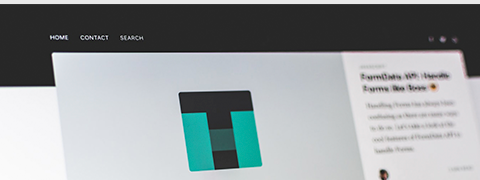
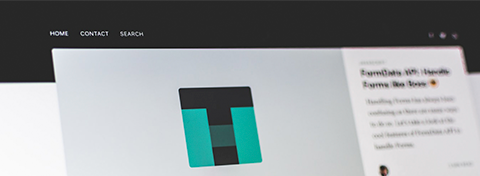
Unit4 Сверстан первый блок

diff --git a/StudyProject/css/style.css b/StudyProject/css/style.css
@@ -57,7 +57,7 @@ p {
 
 .main-container {
 	/* удалить строку*/
-	background-color: lightblue;
+	/* background-color: lightblue; */
 	margin: 0 auto;
 	width: 1920px;
 	color: #222020;
@@ -65,7 +65,7 @@ p {
 
 .container {
 	/* удалить строку*/
-	/* background-color: lightgray; */
+	background-color: rgb(184, 144, 144);
 	margin: inherit;
 	width: 1180px;
 	padding-top: 55px;
@@ -82,8 +82,8 @@ p {
 }
 
 .skillbox {
-	margin-bottom: 30px;
-	font-size: 35px;
+	margin-bottom: 50px;
+	font-size: 40px;
 	font-weight: 500;
 	font-style: normal;
 }
@@ -144,6 +144,7 @@ p {
 	background-repeat: no-repeat;
 	display: inline-block;
 	width: 100px;
+	font-size: 18px;
 	text-align: right;
 }
 
@@ -230,7 +231,8 @@ tfoot {
 	position: absolute;
 	width: 480px;
 	height: 505px;
-	box-shadow: -3px 0px 24px 12px #e8e8e8;
+	box-shadow: -3px 1px 12px 5px #e8e8e8;
+	border-radius: 15px;
 }
 
 .module-left {
@@ -241,9 +243,46 @@ tfoot {
 	right: 0px;
 }
 
-.pictur {
+.picture {
 	/* удалить строку*/
-	background-color: #398b44;
-	width: 480px;
+	/* background-color: #398b44; */
+	width: inherit;
 	height: 180px;
+}
+
+.img-foreword {
+	margin-top: 4px;
+}
+
+.text-block {
+	background-color: #fff;
+	/* position: relative; */
+	width: inherit;
+	height: 325px;
+	overflow: hidden;
+}
+
+.title-text {
+	/* position: relative; */
+	margin: 25px 0;
+	padding-left: 52px;
+	font-weight: 800;
+	font-style: normal;
+	font-size: 36px;
+	color: #2f1ce4;
+}
+
+.text-block p {
+	/* position: absolute; */
+	font-size: 16px;
+	padding-left: 52px;
+	margin-top: 20px;
+}
+
+.page-number {
+	position: absolute;
+	right: 20px;
+	bottom: 20px;
+	font-size: 48px;
+	color: #eaeaea;
 }

diff --git a/StudyProject/modules.html b/StudyProject/modules.html
@@ -1,11 +1,13 @@
 <!DOCTYPE html>
 <html lang="en">
+
 <head>
 	<meta charset="UTF-8">
 	<meta name="viewport" content="width=device-width, initial-scale=1.0">
 	<link rel="stylesheet" href="css/style.css">
 	<title>Веб-вёрстка от Skillbox</title>
 </head>
+
 <body>
 	<div class="main-container">
 		<div class="container">
@@ -14,24 +16,32 @@
 			<h1 class="title-h1">Модули курса Веб-верстка</h1>
 			<div class="module">
 				<div class="module-left">
-					<div class="pictur">
-						<img src="img/photo-foreword.png" alt="Введение">
+					<div class="picture">
+						<img class="img-foreword" src="img/photo-foreword.png" alt="Введение">
+					</div>
+					<div class="text-block">
+						<h2 class="title-text">Введение</h2>
+						<p>Как работают сайты. Верстка</p>
+						<p>Возможности HTML, CSS, JS</p>
+						<p>Редактор кода. Codepen</p>
+						<p>Работа с DevTools</p>
+						<div class="page-number">01</div>
 					</div>
 				</div>
 				<div class="module-right">
-					<div class="pictur">
+					<div class="picture">
 						<img src="img/photo-HTML.png" alt="html">
 					</div>
 				</div>
 			</div>
 			<div class="module">
 				<div class="module-left">
-					<div class="pictur">
+					<div class="picture">
 						<img src="img/photo-CSS.png" alt="CSS">
 					</div>
 				</div>
 				<div class="module-right">
-					<div class="pictur">
+					<div class="picture">
 						<img src="img/photo-maket.png" alt="maket">
 					</div>
 				</div>
@@ -39,4 +49,5 @@
 		</div>
 	</div>
 </body>
+
 </html>
